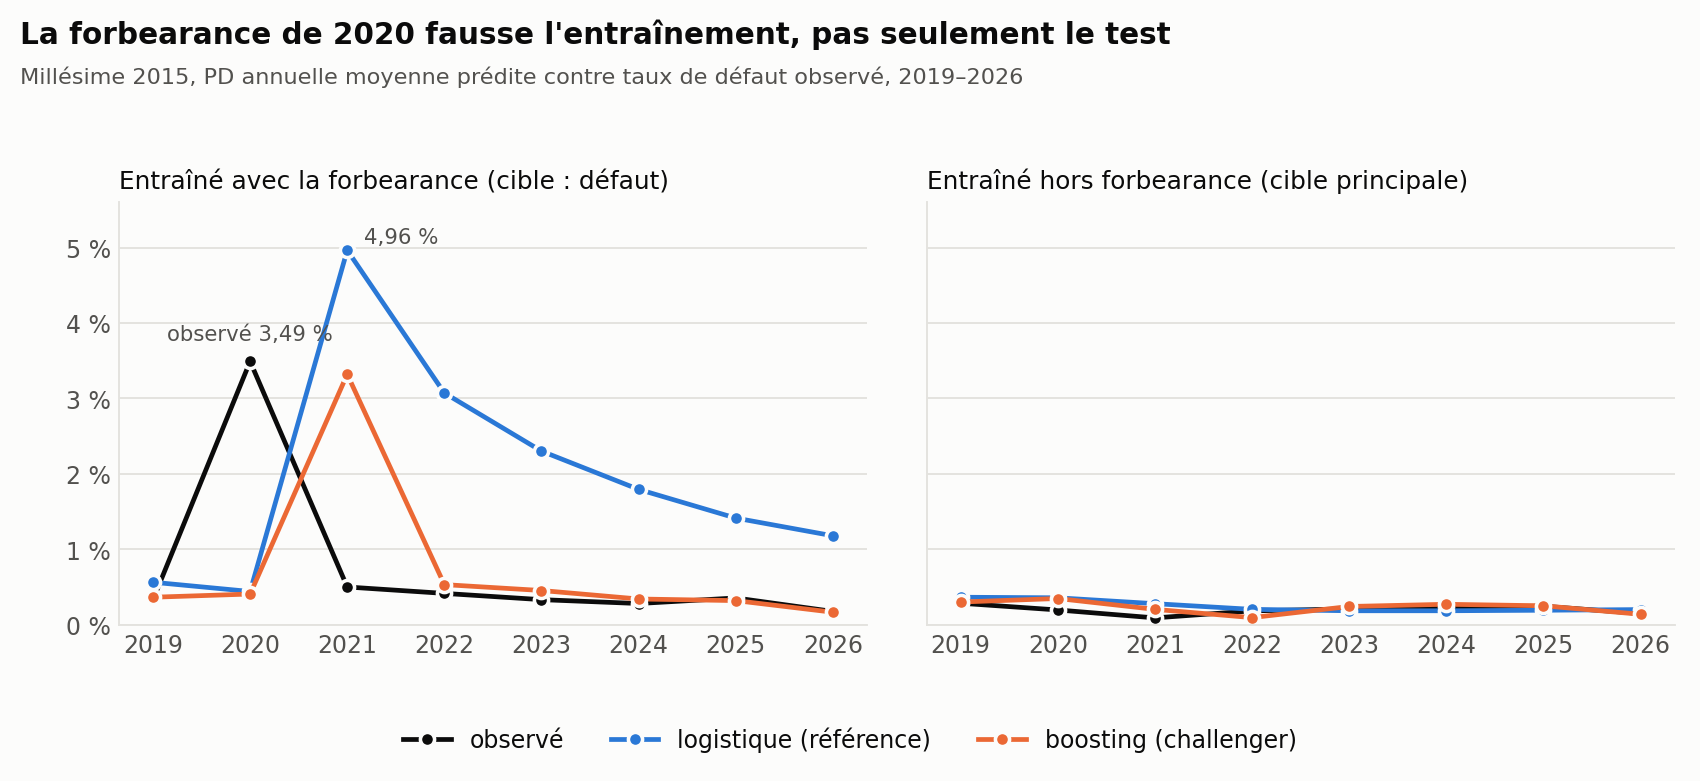
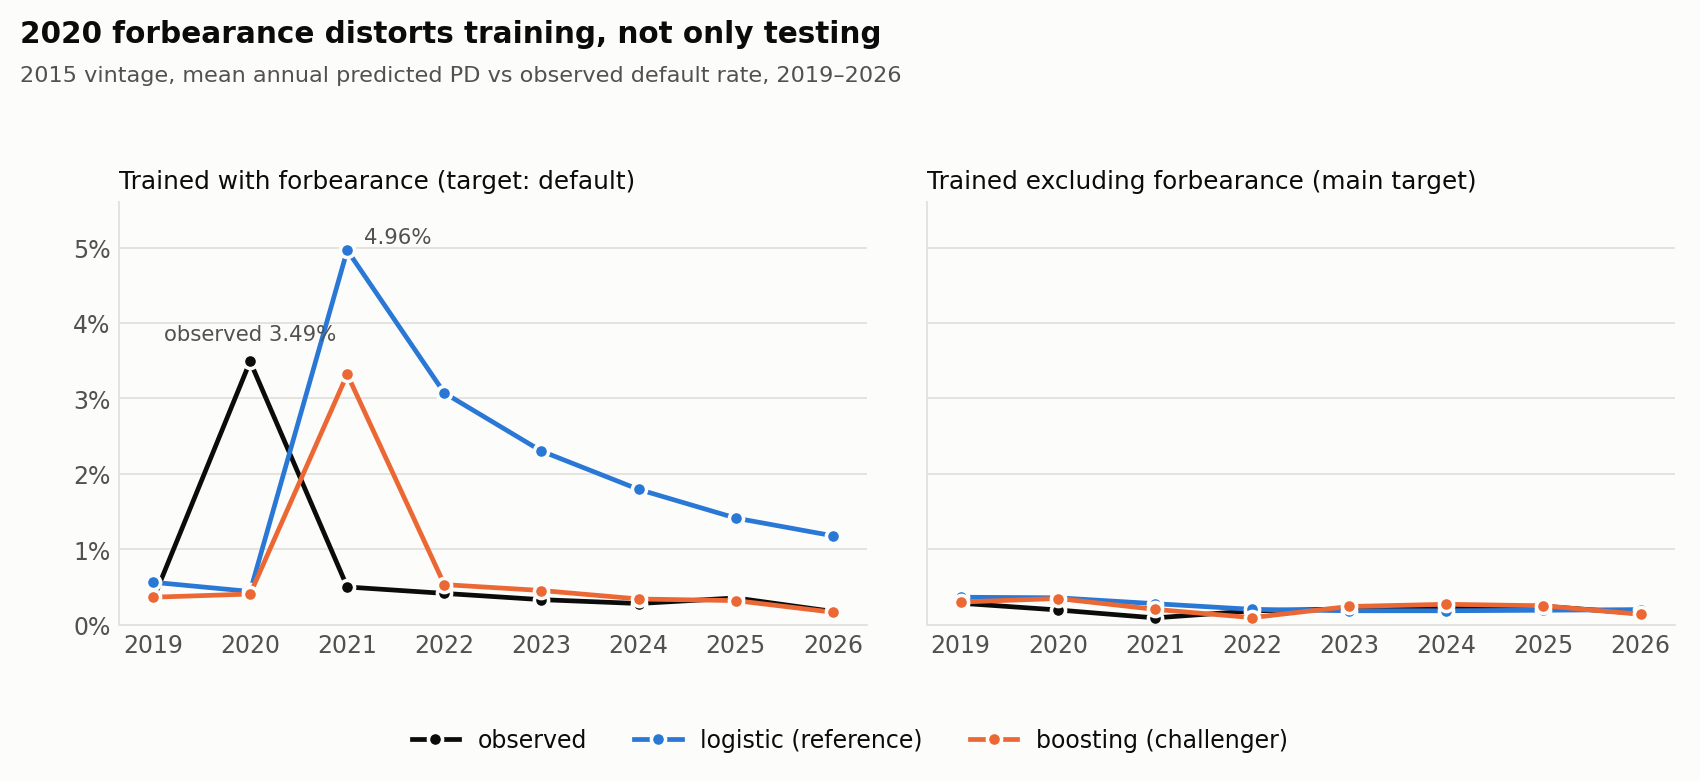
Update 2d time README.MD

diff --git a/scripts/generer_figures.py b/scripts/generer_figures.py
@@ -1,5 +1,5 @@
-"""Génère les figures du README (docs/images/*.png) à partir de data/processed.
-Ne dessine que des agrégats : aucune ligne de prêt n'est affichée. Lancer depuis la racine : python scripts/generer_figures.py"""
+"""Generates the README figures (docs/images/*.png) from data/processed.
+Only aggregates are drawn: no loan-level row is shown. Run from the repository root: python scripts/generer_figures.py"""
 import sys
 from pathlib import Path
 
@@ -27,7 +27,7 @@ plt.rcParams.update({"font.size": 10, "axes.edgecolor": GRID, "axes.labelcolor":
 
 
 def fr(v, d=2):
-    return f"{v:.{d}f}".replace(".", ",")
+    return f"{v:.{d}f}"
 
 
 def style(ax):
@@ -39,7 +39,7 @@ def style(ax):
 
 
 def pct(ax, axe="y"):
-    f = FuncFormatter(lambda v, _: f"{v:g}".replace(".", ",") + " %")
+    f = FuncFormatter(lambda v, _: f"{v:g}%")
     (ax.yaxis if axe == "y" else ax.xaxis).set_major_formatter(f)
 
 
@@ -51,7 +51,7 @@ def titre(fig, haut, bas):
 def enregistrer(fig, nom):
     fig.savefig(SORTIE / nom, dpi=170)
     plt.close(fig)
-    print("écrit :", SORTIE / nom)
+    print("written:", SORTIE / nom)
 
 
 def annuel(an, cible):
@@ -68,8 +68,8 @@ def annuel(an, cible):
 
 def courbes(ax, d):
     kw = dict(lw=2, marker="o", ms=6, mec=SURF, mew=1.5)
-    ax.plot(d["ref"].index, 100 * d["ref"]["obs"], color=INK, label="observé", **kw)
-    ax.plot(d["ref"].index, 100 * d["ref"]["pred"], color=BLEU, label="logistique (référence)", **kw)
+    ax.plot(d["ref"].index, 100 * d["ref"]["obs"], color=INK, label="observed", **kw)
+    ax.plot(d["ref"].index, 100 * d["ref"]["pred"], color=BLEU, label="logistic (reference)", **kw)
     ax.plot(d["chall"].index, 100 * d["chall"]["pred"], color=ORANGE, label="boosting (challenger)", **kw)
 
 
@@ -83,19 +83,19 @@ def fig_forbearance():
     sens, princ = annuel(2015, "sensibilite"), annuel(2015, "principal")
     fig, axes = plt.subplots(1, 2, figsize=(10, 4.6), sharey=True)
     fig.subplots_adjust(top=0.74, bottom=0.2, left=0.07, right=0.985, wspace=0.08)
-    for ax, d, t in ((axes[0], sens, "Entraîné avec la forbearance (cible : défaut)"),
-                     (axes[1], princ, "Entraîné hors forbearance (cible principale)")):
+    for ax, d, t in ((axes[0], sens, "Trained with forbearance (target: default)"),
+                     (axes[1], princ, "Trained excluding forbearance (main target)")):
         courbes(ax, d); style(ax); pct(ax)
         ax.set_title(t, loc="left", fontsize=10.5, color=INK)
     a0 = axes[0]
     an_max = sens["ref"]["pred"].idxmax()
-    a0.annotate(f"{fr(100 * sens['ref']['pred'].max())} %", (an_max, 100 * sens["ref"]["pred"].max()),
+    a0.annotate(f"{fr(100 * sens['ref']['pred'].max())}%", (an_max, 100 * sens["ref"]["pred"].max()),
                 xytext=(7, 3), textcoords="offset points", fontsize=9, color=INK2)
-    a0.annotate(f"observé {fr(100 * sens['ref'].loc[2020, 'obs'])} %", (2020, 100 * sens["ref"].loc[2020, "obs"]),
+    a0.annotate(f"observed {fr(100 * sens['ref'].loc[2020, 'obs'])}%", (2020, 100 * sens["ref"].loc[2020, "obs"]),
                 xytext=(0, 9), textcoords="offset points", fontsize=9, color=INK2, ha="center")
     axes[0].set_ylim(0, 5.6)
-    titre(fig, "La forbearance de 2020 fausse l'entraînement, pas seulement le test",
-          "Millésime 2015, PD annuelle moyenne prédite contre taux de défaut observé, 2019–2026")
+    titre(fig, "2020 forbearance distorts training, not only testing",
+          "2015 vintage, mean annual predicted PD vs observed default rate, 2019–2026")
     legende(fig, axes[0])
     enregistrer(fig, "01_forbearance_2015.png")
 
@@ -106,13 +106,13 @@ def fig_2007():
     fig, ax = plt.subplots(figsize=(9, 4.6))
     fig.subplots_adjust(top=0.76, bottom=0.2, left=0.08, right=0.97)
     courbes(ax, d); style(ax); pct(ax)
-    ax.set_ylim(0, 10.5); ax.set_xlabel("année de test")
+    ax.set_ylim(0, 10.5); ax.set_xlabel("test year")
     a = d["ref"].index[0]
-    ax.text(0.985, 0.95, f"en {a} : {fr(100 * d['ref'].loc[a, 'pred'])} % prédit par la logistique\n"
-            f"contre {fr(100 * d['ref'].loc[a, 'obs'])} % observé", transform=ax.transAxes,
+    ax.text(0.985, 0.95, f"in {a}: {fr(100 * d['ref'].loc[a, 'pred'])}% predicted by the logistic\n"
+            f"vs {fr(100 * d['ref'].loc[a, 'obs'])}% observed", transform=ax.transAxes,
             ha="right", va="top", fontsize=9, color=INK2)
-    titre(fig, "Millésime 2007 : la logistique surestime le risque, le boosting suit l'observé",
-          "Walk-forward, cible principale (hors forbearance), PD annuelle moyenne, 2011–2026")
+    titre(fig, "2007 vintage: the logistic overestimates risk, the boosting follows the observed rate",
+          "Walk-forward, main target (excluding forbearance), mean annual PD, 2011–2026")
     legende(fig, ax)
     enregistrer(fig, "02_millesime_2007.png")
 
@@ -124,8 +124,8 @@ def fig_calibration():
     fig.subplots_adjust(top=0.8, bottom=0.17, left=0.13, right=0.96)
     lim = (0.2, 30)
     ax.plot(lim, lim, color=INK2, lw=1, zorder=1)
-    ax.text(0.27, 0.36, "calibration parfaite", color=INK2, fontsize=9, rotation=34, ha="left", va="bottom")
-    for m, couleur, nom in (("ref", BLEU, "logistique (référence)"), ("chall", ORANGE, "boosting (challenger)")):
+    ax.text(0.27, 0.36, "perfect calibration", color=INK2, fontsize=9, rotation=34, ha="left", va="bottom")
+    for m, couleur, nom in (("ref", BLEU, "logistic (reference)"), ("chall", ORANGE, "boosting (challenger)")):
         g = c[c["modele"] == m].groupby("groupe")
         pred = 100 * g.apply(lambda x: np.average(x["predit"], weights=x["n"]), include_groups=False)
         obs = 100 * g["n_evenements_hors_forbearance"].sum() / g["n"].sum()
@@ -135,11 +135,11 @@ def fig_calibration():
     for axe in (ax.xaxis, ax.yaxis):
         axe.set_major_locator(FixedLocator(ticks)); axe.set_minor_locator(FixedLocator([]))
     pct(ax); pct(ax, "x")
-    ax.set_xlabel("PD prédite (moyenne par classe, 2011–2026)"); ax.set_ylabel("taux de défaut observé")
+    ax.set_xlabel("Predicted PD (class mean, 2011–2026)"); ax.set_ylabel("observed default rate")
     style(ax); ax.grid(axis="x", color=GRID, lw=0.8)
     ax.legend(frameon=False, loc="upper left")
-    titre(fig, "Calibration par décile, millésime 2007",
-          "Le boosting colle à la diagonale ; la logistique est dessous (modèle prudent). Axes log")
+    titre(fig, "Calibration by decile, 2007 vintage",
+          "The boosting stays close to the diagonal; the logistic is below it (conservative model). Log axes")
     enregistrer(fig, "03_calibration_deciles_2007.png")
 
 
@@ -155,45 +155,45 @@ def fig_lgd():
     for ax in (a, b):
         ax.axvspan(2007.5, 2010.5, color="#ececea", zorder=0)
     a.plot(ok["annee_defaut"], 100 * ok["lgd_ponderee"], color=BLEU, lw=2, marker="o", ms=6, mec=SURF, mew=1.5)
-    a.set_ylim(30, 62); style(a); pct(a); a.set_ylabel("LGD pondérée")
-    a.text(2009, 60.5, "crise 2008–2010", ha="center", fontsize=9, color=INK2)
-    a.text(0.985, 0.95, f"écart crise − autres années : +{fr(100 * r['ecart'], 1)} points\n"
-           f"intervalle bootstrap {fr(100 * r['ic95'][0], 1)} à {fr(100 * r['ic95'][1], 1)} (trop étroit)",
+    a.set_ylim(30, 62); style(a); pct(a); a.set_ylabel("Weighted LGD")
+    a.text(2009, 60.5, "2008–2010 crisis", ha="center", fontsize=9, color=INK2)
+    a.text(0.985, 0.95, f"crisis − other years gap: +{fr(100 * r['ecart'], 1)} points\n"
+           f"bootstrap interval {fr(100 * r['ic95'][0], 1)} to {fr(100 * r['ic95'][1], 1)} (too narrow)",
            transform=a.transAxes, ha="right", va="top", fontsize=9, color=INK2)
     b.bar(coh["annee_defaut"], coh["n"], width=0.6, color="#a9a7a0")
-    style(b); b.set_ylabel("prêts"); b.set_xlabel("année du défaut")
+    style(b); b.set_ylabel("loans"); b.set_xlabel("default year")
     b.set_xticks(range(2007, 2019, 2)); b.set_xlim(2006.4, 2018.6)
-    titre(fig, "Millésime 2007 : la LGD des défauts de crise est plus élevée de 8 points",
-          "LGD réalisée = perte / UPB au défaut, cohortes d'au moins 30 prêts ; pas d'actualisation, défauts liquidés seulement")
+    titre(fig, "2007 vintage: LGD of crisis defaults is 8 points higher",
+          "Realised LGD = loss / UPB at default, cohorts of at least 30 loans; not discounted, liquidated defaults only")
     enregistrer(fig, "04_lgd_2007.png")
 
 
 # ---- 5. puissance du test binomial selon le nombre de défauts
 def fig_puissance():
-    p0 = 0.000479   # PD moyenne prédite du segment à faible taux de défaut (notebook 07)
+    p0 = 0.000479   # mean predicted PD of the low-default segment (notebook 07)
     D = np.unique(np.concatenate([np.geomspace(1, 100, 120), [5, 10, 20, 30]]))
     fig, ax = plt.subplots(figsize=(9, 4.6))
     fig.subplots_adjust(top=0.76, bottom=0.2, left=0.08, right=0.97)
-    for f, couleur, nom in ((2, BLEU, "PD réelle 2 fois l'annoncée"), (3, ORANGE, "PD réelle 3 fois l'annoncée")):
+    for f, couleur, nom in ((2, BLEU, "true PD 2x the announced one"), (3, ORANGE, "true PD 3x the announced one")):
         p = [100 * puissance_binomial(max(1, int(round(d / p0))), p0, f) for d in D]
         ax.plot(D, p, color=couleur, lw=2, label=nom)
     for d in (5, 10):
         v = 100 * puissance_binomial(int(round(d / p0)), p0, 2)
         ax.plot([d], [v], "o", color=BLEU, ms=8, mec=SURF, mew=2)
-        ax.annotate(f"{d} défauts : {v:.0f} %", (d, v), xytext=(8, -14), textcoords="offset points", fontsize=9, color=INK2)
+        ax.annotate(f"{d} defaults: {v:.0f}%", (d, v), xytext=(8, -14), textcoords="offset points", fontsize=9, color=INK2)
     ax.axvline(30, color=INK2, lw=1)
-    ax.text(31, 6, "seuil du projet :\n30 défauts", fontsize=9, color=INK2, va="bottom")
-    ax.text(1.05, 8, "dents de scie : le test exact est discret", fontsize=8.5, color=INK2)
+    ax.text(31, 6, "project threshold:\n30 defaults", fontsize=9, color=INK2, va="bottom")
+    ax.text(1.05, 8, "sawtooth: the exact test is discrete", fontsize=8.5, color=INK2)
     ax.axhline(80, color=GRID, lw=1.2)
-    ax.text(1.05, 81.5, "80 %", fontsize=9, color=INK2)
+    ax.text(1.05, 81.5, "80%", fontsize=9, color=INK2)
     ax.set_xscale("log"); ax.set_ylim(0, 103)
     ax.xaxis.set_major_locator(FixedLocator([1, 2, 5, 10, 20, 30, 50, 100]))
     ax.xaxis.set_minor_locator(FixedLocator([]))
     ax.xaxis.set_major_formatter(FuncFormatter(lambda v, _: f"{v:g}"))
     pct(ax); style(ax)
-    ax.set_xlabel("nombre de défauts attendus (échelle logarithmique)"); ax.set_ylabel("puissance du test")
-    titre(fig, "Sous 10 défauts attendus, le test binomial rate souvent une PD deux fois trop faible",
-          "Probabilité de rejeter à 5 % la PD annoncée (0,048 %) quand la vraie PD est plus élevée ; défauts supposés indépendants")
+    ax.set_xlabel("expected number of defaults (log scale)"); ax.set_ylabel("test power")
+    titre(fig, "Below 10 expected defaults, the binomial test often misses a PD that is twice too low",
+          "Probability of rejecting the announced PD (0.048%) at the 5% level when the true PD is higher; defaults assumed independent")
     legende(fig, ax)
     enregistrer(fig, "05_puissance_test_binomial.png")
 
